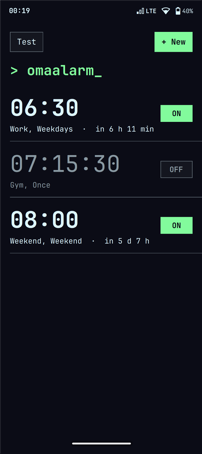
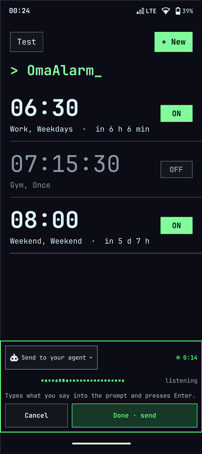
App id omaalarm (matches the desktop entry), header OmaAlarm

diff --git a/qml/shell.qml b/qml/shell.qml
@@ -340,7 +340,7 @@ ShellRoot {
             }
             Text {
                 id: title
-                text: "> omaalarm_"
+                text: "> OmaAlarm_"
                 color: root.accent
                 font.family: root.mono; font.pixelSize: 28; font.bold: true
                 anchors.left: parent.left; anchors.leftMargin: 20
